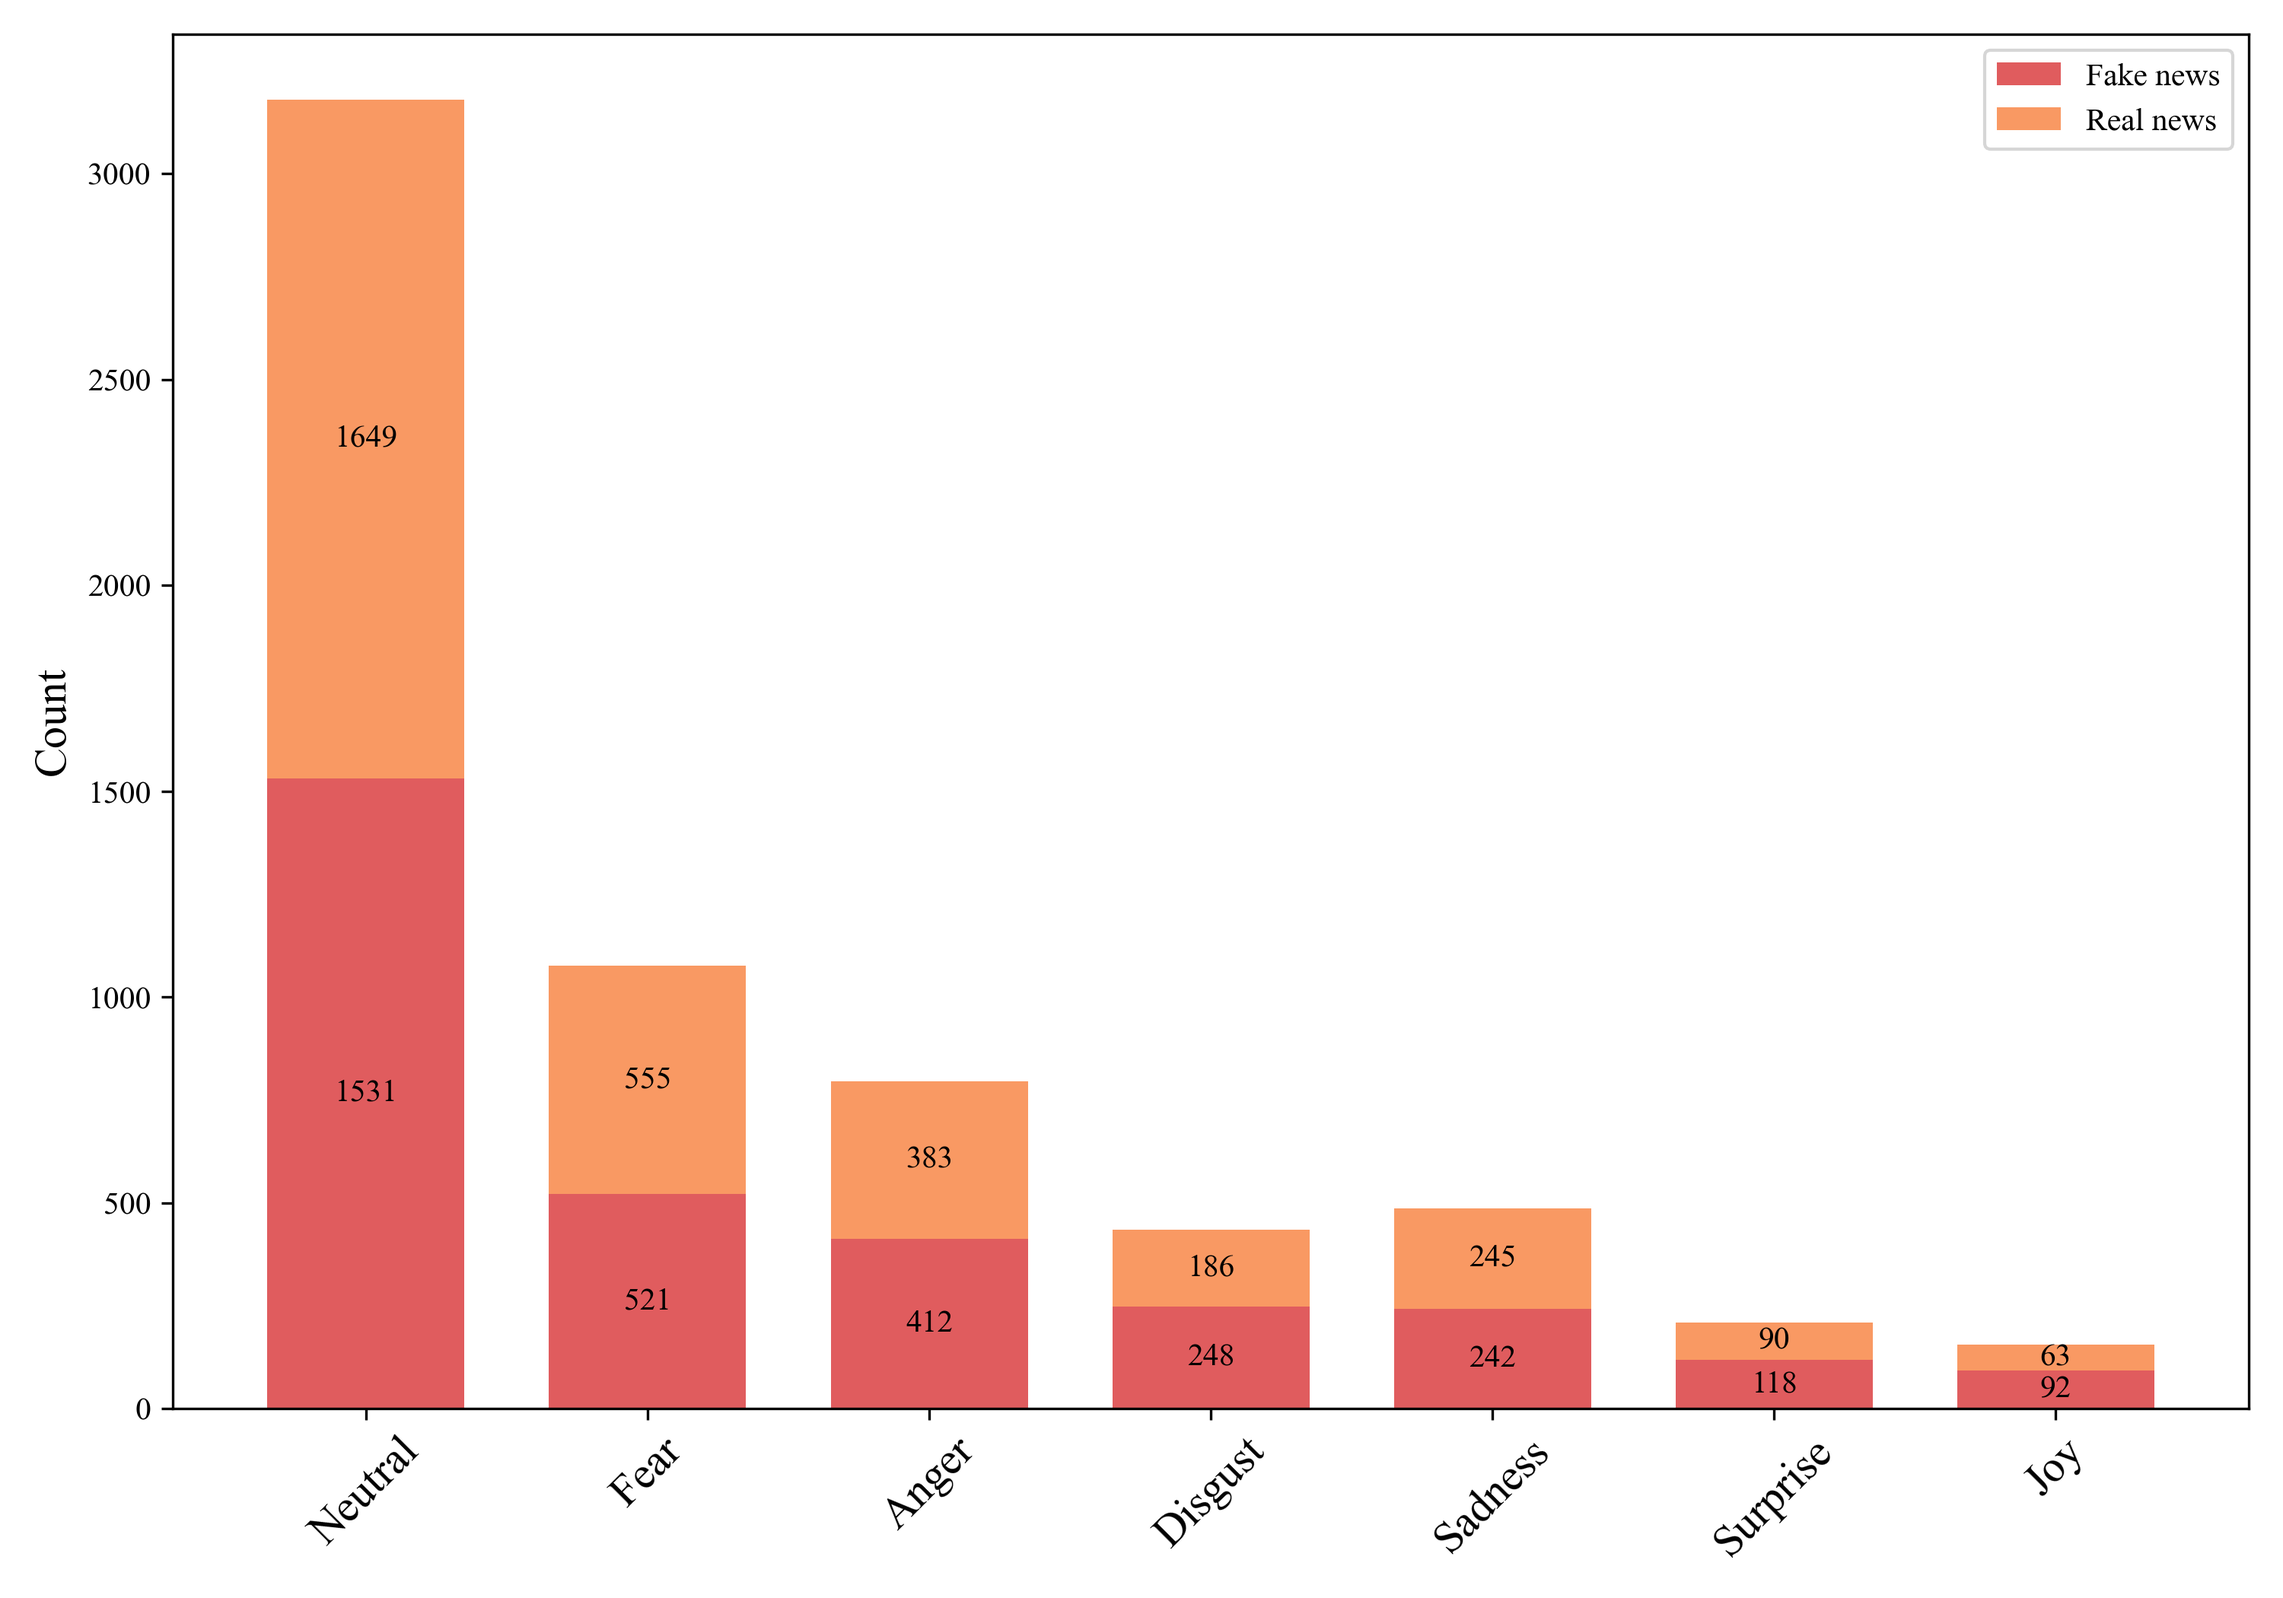
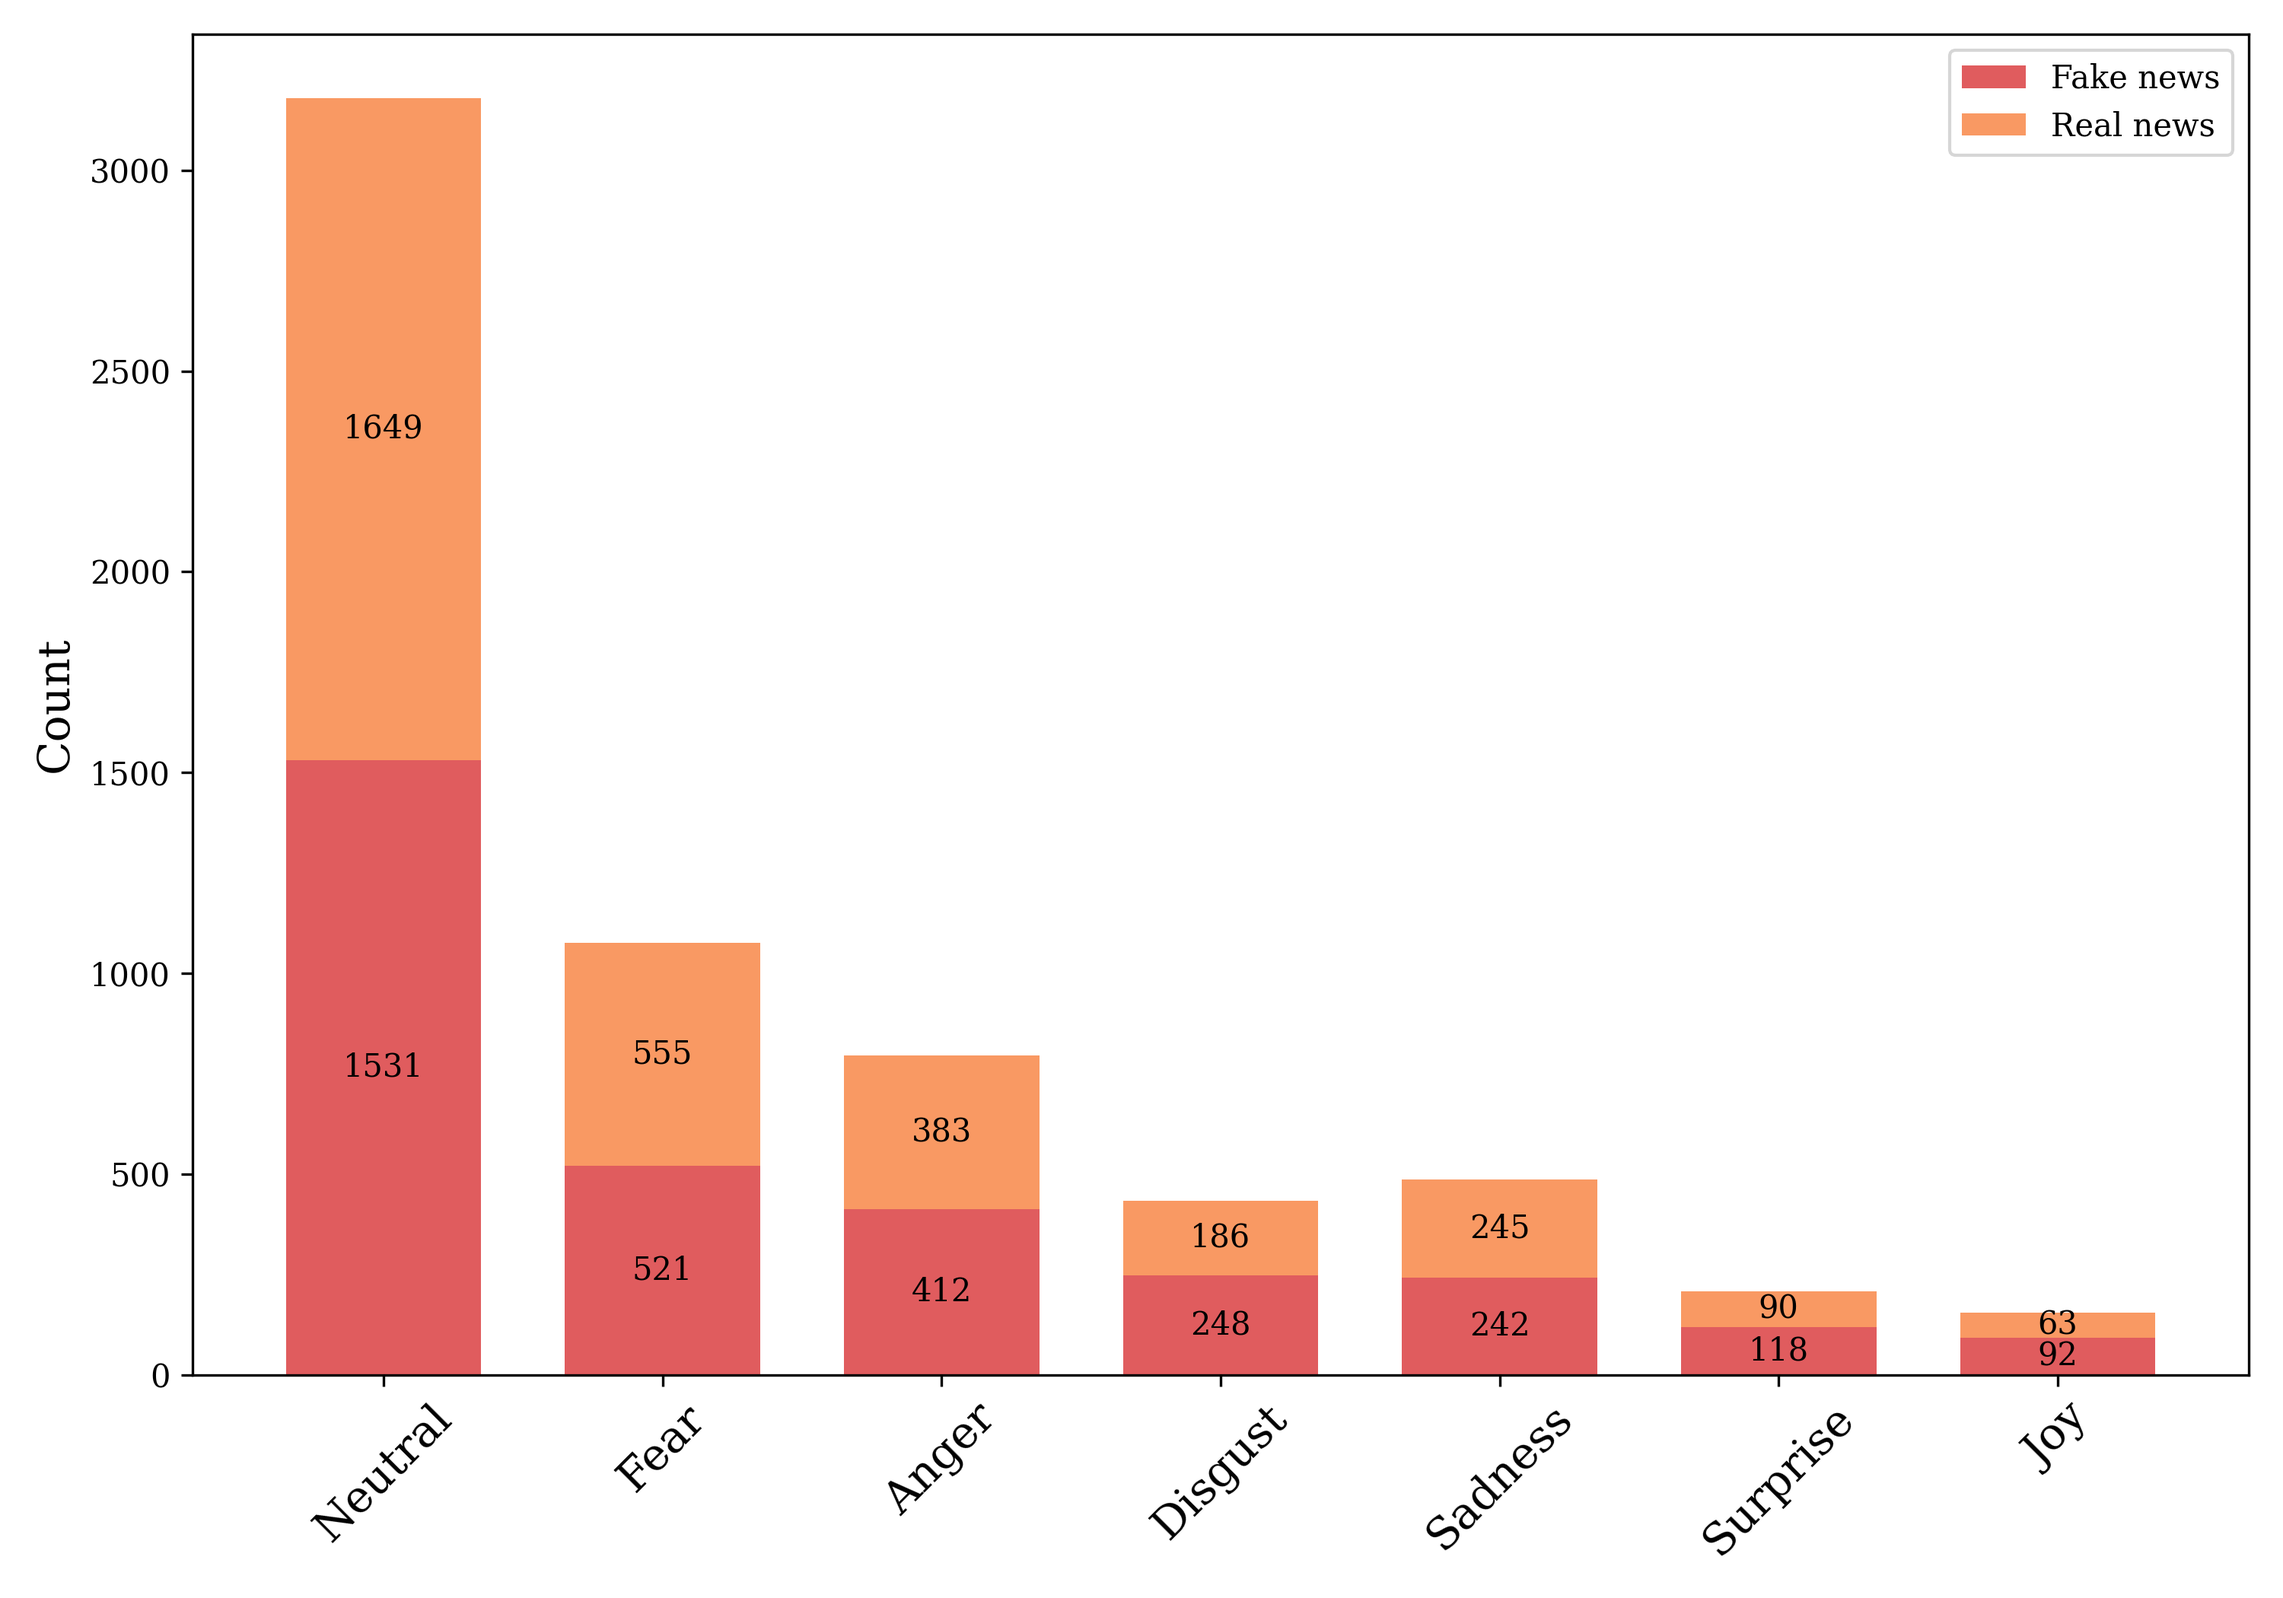
debug

Changed region(s): [[0.0, 0.031, 0.961, 0.9905], [0.837, 0.031, 0.961, 0.1238], [0.372, 0.9286, 0.403, 0.9595]]

diff --git a/src/summarise_results.py b/src/summarise_results.py
@@ -12,7 +12,7 @@ from pathlib import Path
 import numpy as np
 import seaborn as sns
 
-plt.rcParams['font.family'] = 'times new roman'
+plt.rcParams['font.family'] = 'serif'
 
 def most_prevalent(data:pd.DataFrame):
     """

diff --git a/README.md b/README.md
@@ -13,15 +13,12 @@ To reproduce the results follow the steps below. All terminal commands should be
 ```
 bash setup.sh
 ```
-4. Activate the environment and run the code
+4. Run emotion classification and generate plots
 ```
-source env/bin/activate
-python src/emotion_classification.py
+bash run.sh
 ```
-5. To plot and create a table to summarise the results, run the following command
-```
-python src/summarise_results.py
-```
+The pipeline was developed and tested on [uCloud](https://cloud.sdu.dk/app/dashboard)(Ubuntu v22.10m, Coder python v1.77.3, python v3.10.7).
+
 
 ## Repository structure
 ```
@@ -29,13 +26,15 @@ python src/summarise_results.py
 │   ├── classified_emotions.csv
 │   └── fake_or_real_news.csv
 ├── figs
-│   └── emotion_plot.png
+│   ├── emotion_counts.png
+│   └── emotion_proportions.png
 ├── src
 │   ├── emotion_classification.py
 │   └── summarise_results.py
 ├── assignment_description.md
 ├── README.md
 ├── requirements.txt
+├── run.sh
 └── setup.sh
 ```
 
